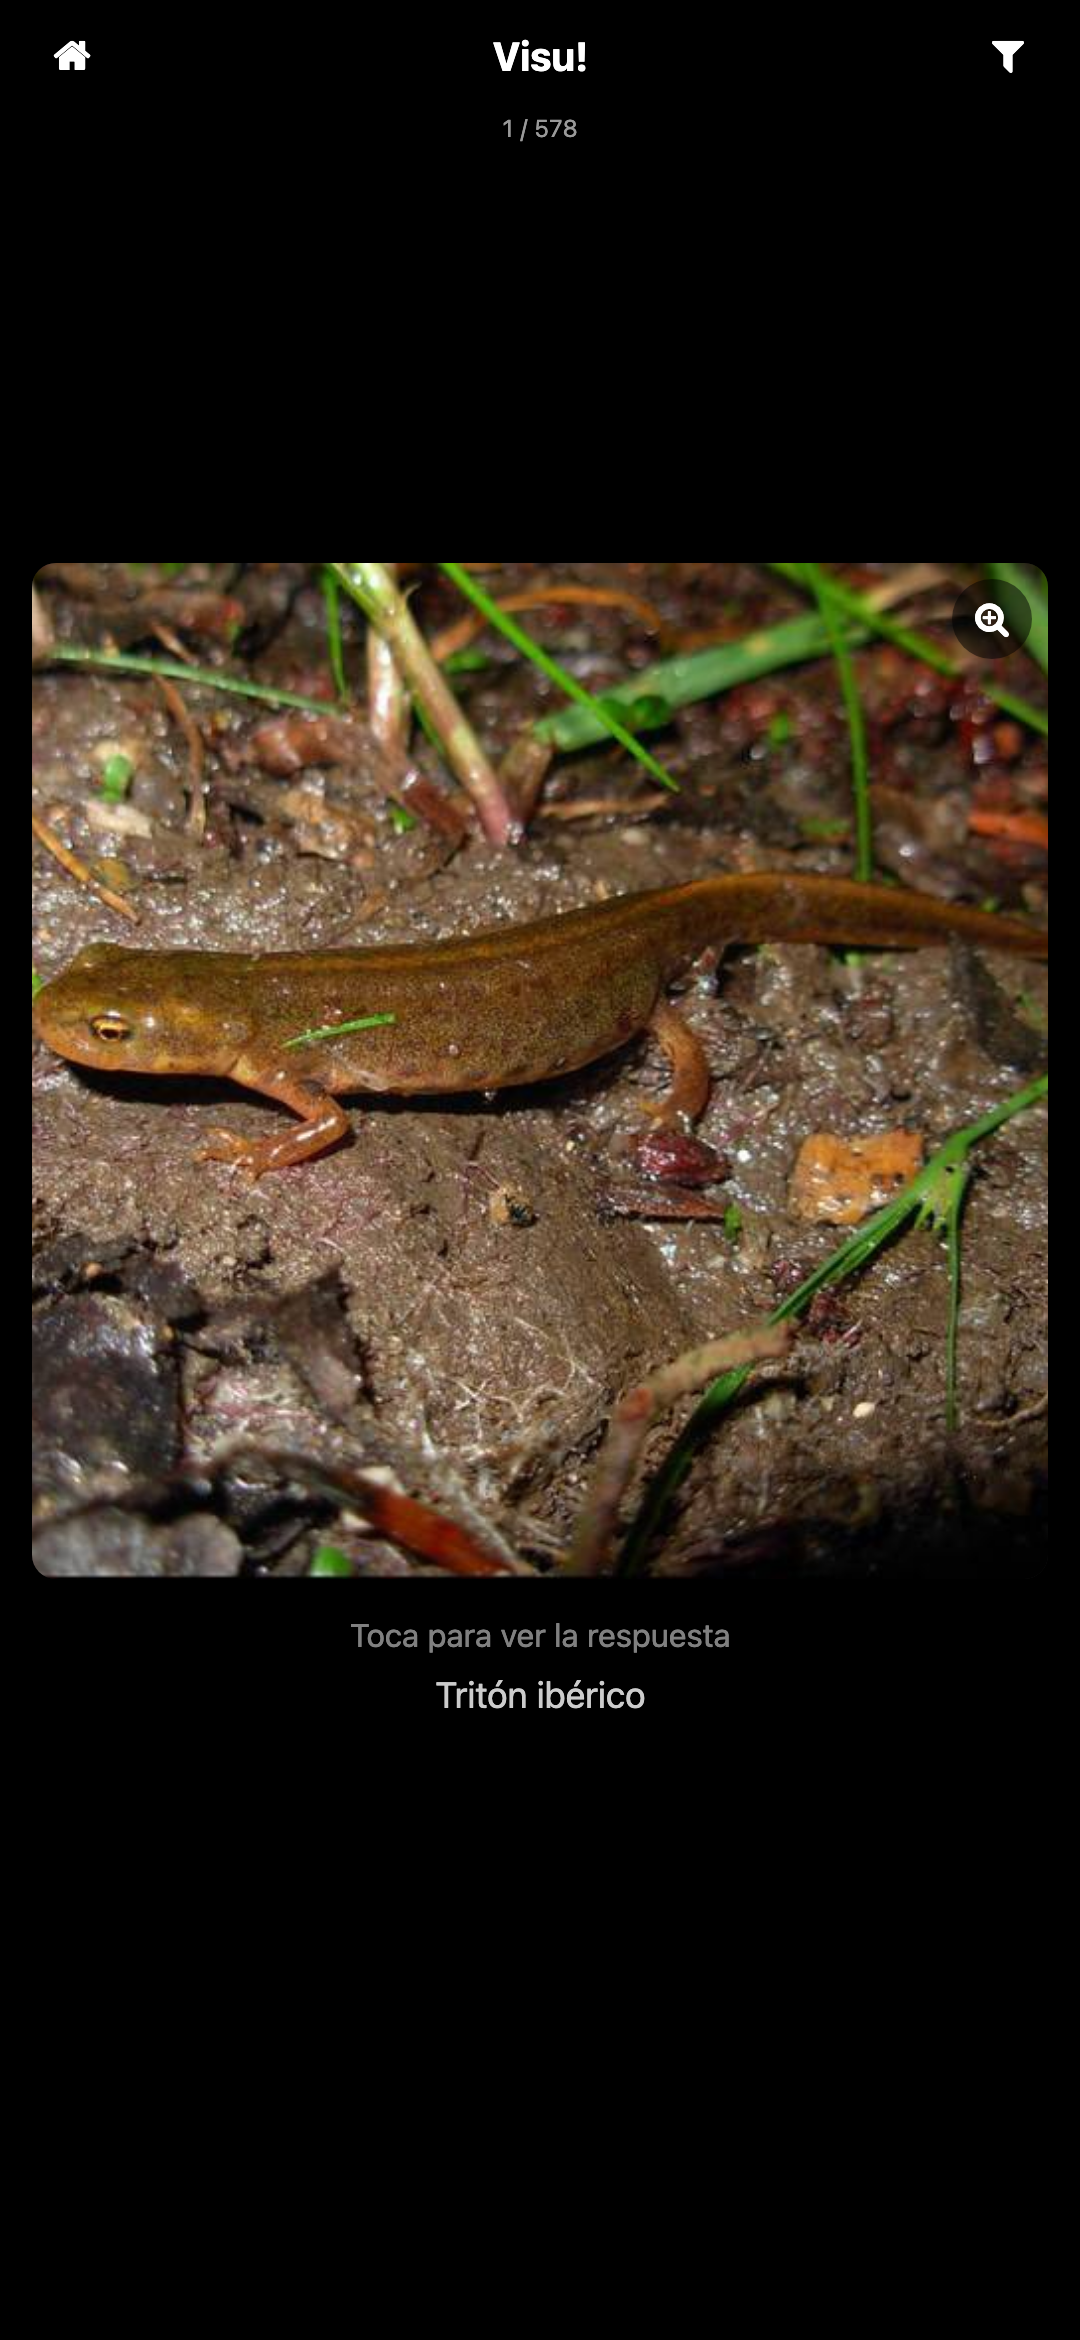
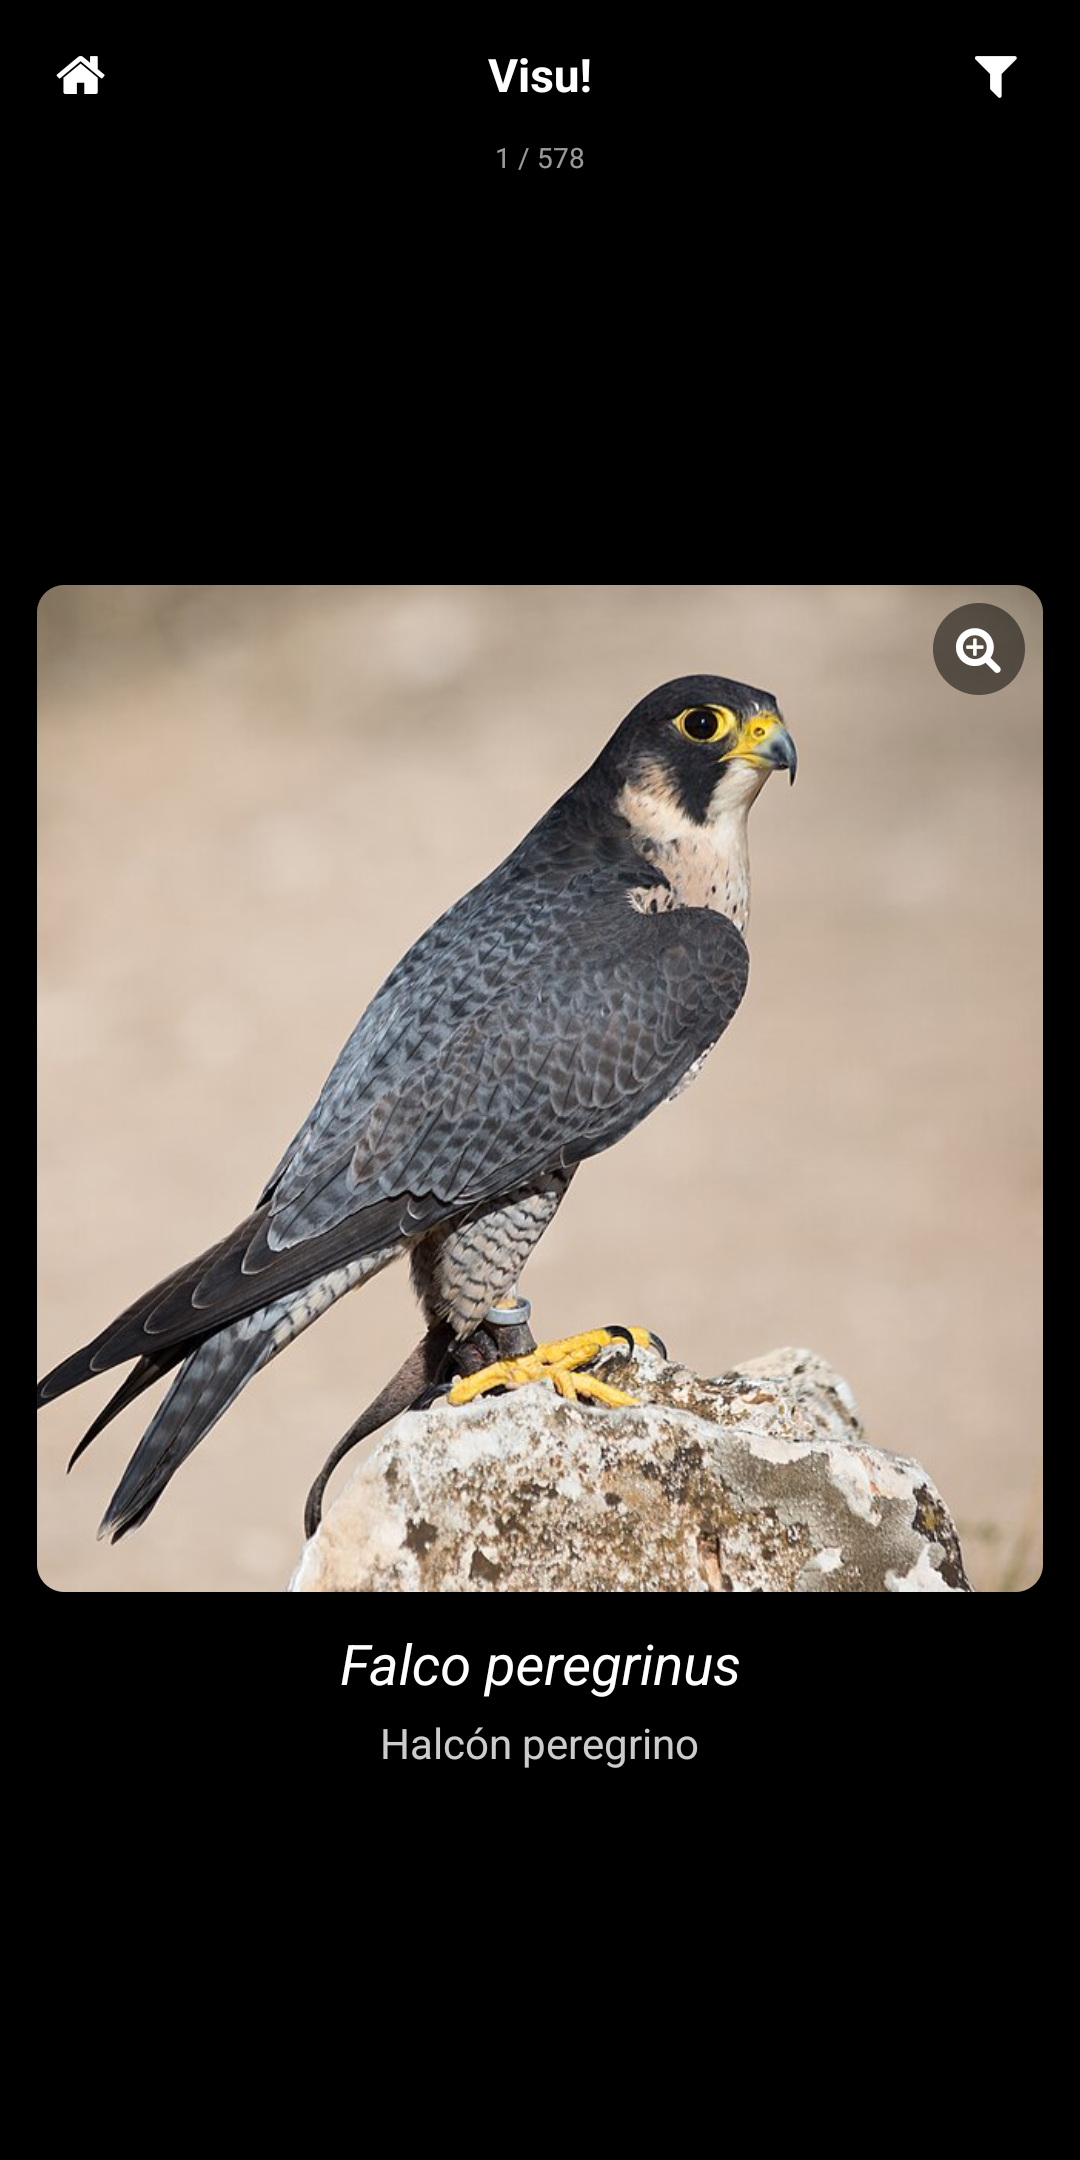
Release tooling: local signing plugin, Play upload/listing scripts, emulator screenshots
- plugins/withReleaseSigning: sign release builds with the upload key in
  ~/.android-keys when present.
- scripts/play-upload.mjs and play-listing.mjs push bundles and the store
  listing through the Play Developer API.
- R8 minification and resource shrinking; versionCode 3 (Play has 2).
- Real Android 16 screenshots; themed switch colors.

diff --git a/plugins/withReleaseSigning.js b/plugins/withReleaseSigning.js
@@ -1,0 +1,36 @@
+// Signs local release builds with the upload key described by
+// ~/.android-keys/visuvisu-upload.properties (never committed). Without that
+// file, release builds fall back to the debug key, as in a fresh Expo prebuild.
+const { withAppBuildGradle } = require("expo/config-plugins");
+
+const MARKER = "// visu-release-signing";
+
+module.exports = function withReleaseSigning(config) {
+  return withAppBuildGradle(config, (cfg) => {
+    let gradle = cfg.modResults.contents;
+    if (gradle.includes(MARKER)) return cfg;
+
+    gradle = gradle.replace(
+      /signingConfigs \{/,
+      `signingConfigs { ${MARKER}
+        def visuKeyFile = new File(System.getProperty("user.home"), ".android-keys/visuvisu-upload.properties")
+        if (visuKeyFile.exists()) {
+            def visuKey = new Properties()
+            visuKeyFile.withInputStream { visuKey.load(it) }
+            upload {
+                storeFile file(visuKey["VISU_UPLOAD_STORE_FILE"])
+                storePassword visuKey["VISU_UPLOAD_STORE_PASSWORD"]
+                keyAlias visuKey["VISU_UPLOAD_KEY_ALIAS"]
+                keyPassword visuKey["VISU_UPLOAD_KEY_PASSWORD"]
+            }
+        }`
+    );
+    // Use the upload key for release when it exists.
+    gradle = gradle.replace(
+      /(release \{[^}]*?)signingConfig signingConfigs\.debug/,
+      "$1signingConfig signingConfigs.findByName('upload') ?: signingConfigs.debug"
+    );
+    cfg.modResults.contents = gradle;
+    return cfg;
+  });
+};

diff --git a/app/(tabs)/settings.tsx b/app/(tabs)/settings.tsx
@@ -67,7 +67,8 @@ export default function Settings() {
               <Switch
                 value={settings.showCommonName}
                 onValueChange={(showCommonName) => update({ showCommonName })}
-                trackColor={{ true: colors.accent }}
+                trackColor={{ true: colors.accent, false: "#555" }}
+                thumbColor={settings.showCommonName ? colors.card : "#ccc"}
                 accessibilityLabel="Mostrar nombre común"
               />
             }
@@ -102,7 +103,7 @@ export default function Settings() {
           <Row label="Contenido" right={<Text className="text-white/60">{totalSpecies} especies · {classes.length} categorías</Text>} />
           <Row
             label="Créditos de las imágenes"
-            detail="Fotografías de Wikimedia Commons y otras fuentes; autor y licencia se muestran al ampliar cada imagen."
+            detail="Fotografías con licencia libre, casi todas de Wikimedia Commons; autor y licencia se muestran al ampliar cada imagen."
           />
           <Row label="Política de privacidad" detail="El visu no recoge datos personales." onPress={() => Linking.openURL(PRIVACY_URL)} />
           <Row label="Código fuente" onPress={() => Linking.openURL(REPO_URL)} />

diff --git a/store/listing.md b/store/listing.md
@@ -25,7 +25,7 @@ Fotografías de Wikimedia Commons con licencias libres; autor y licencia visible
 ## Recursos gráficos
 - Icono 512×512: `store/icon-512.png`
 - Gráfico de funciones 1024×500: `store/feature-graphic.png`
-- Capturas de teléfono (1080×2340): `store/screenshots/` — generadas desde la build web; conviene sustituirlas por capturas de un móvil real.
+- Capturas de teléfono (1080×2160): `store/screenshots/` — tomadas del emulador Android 16 (Pixel 8).
 
 ## Política de privacidad (URL)
 https://github.com/JaimeAlonsoGA/visuvisu/blob/main/PRIVACY.md
